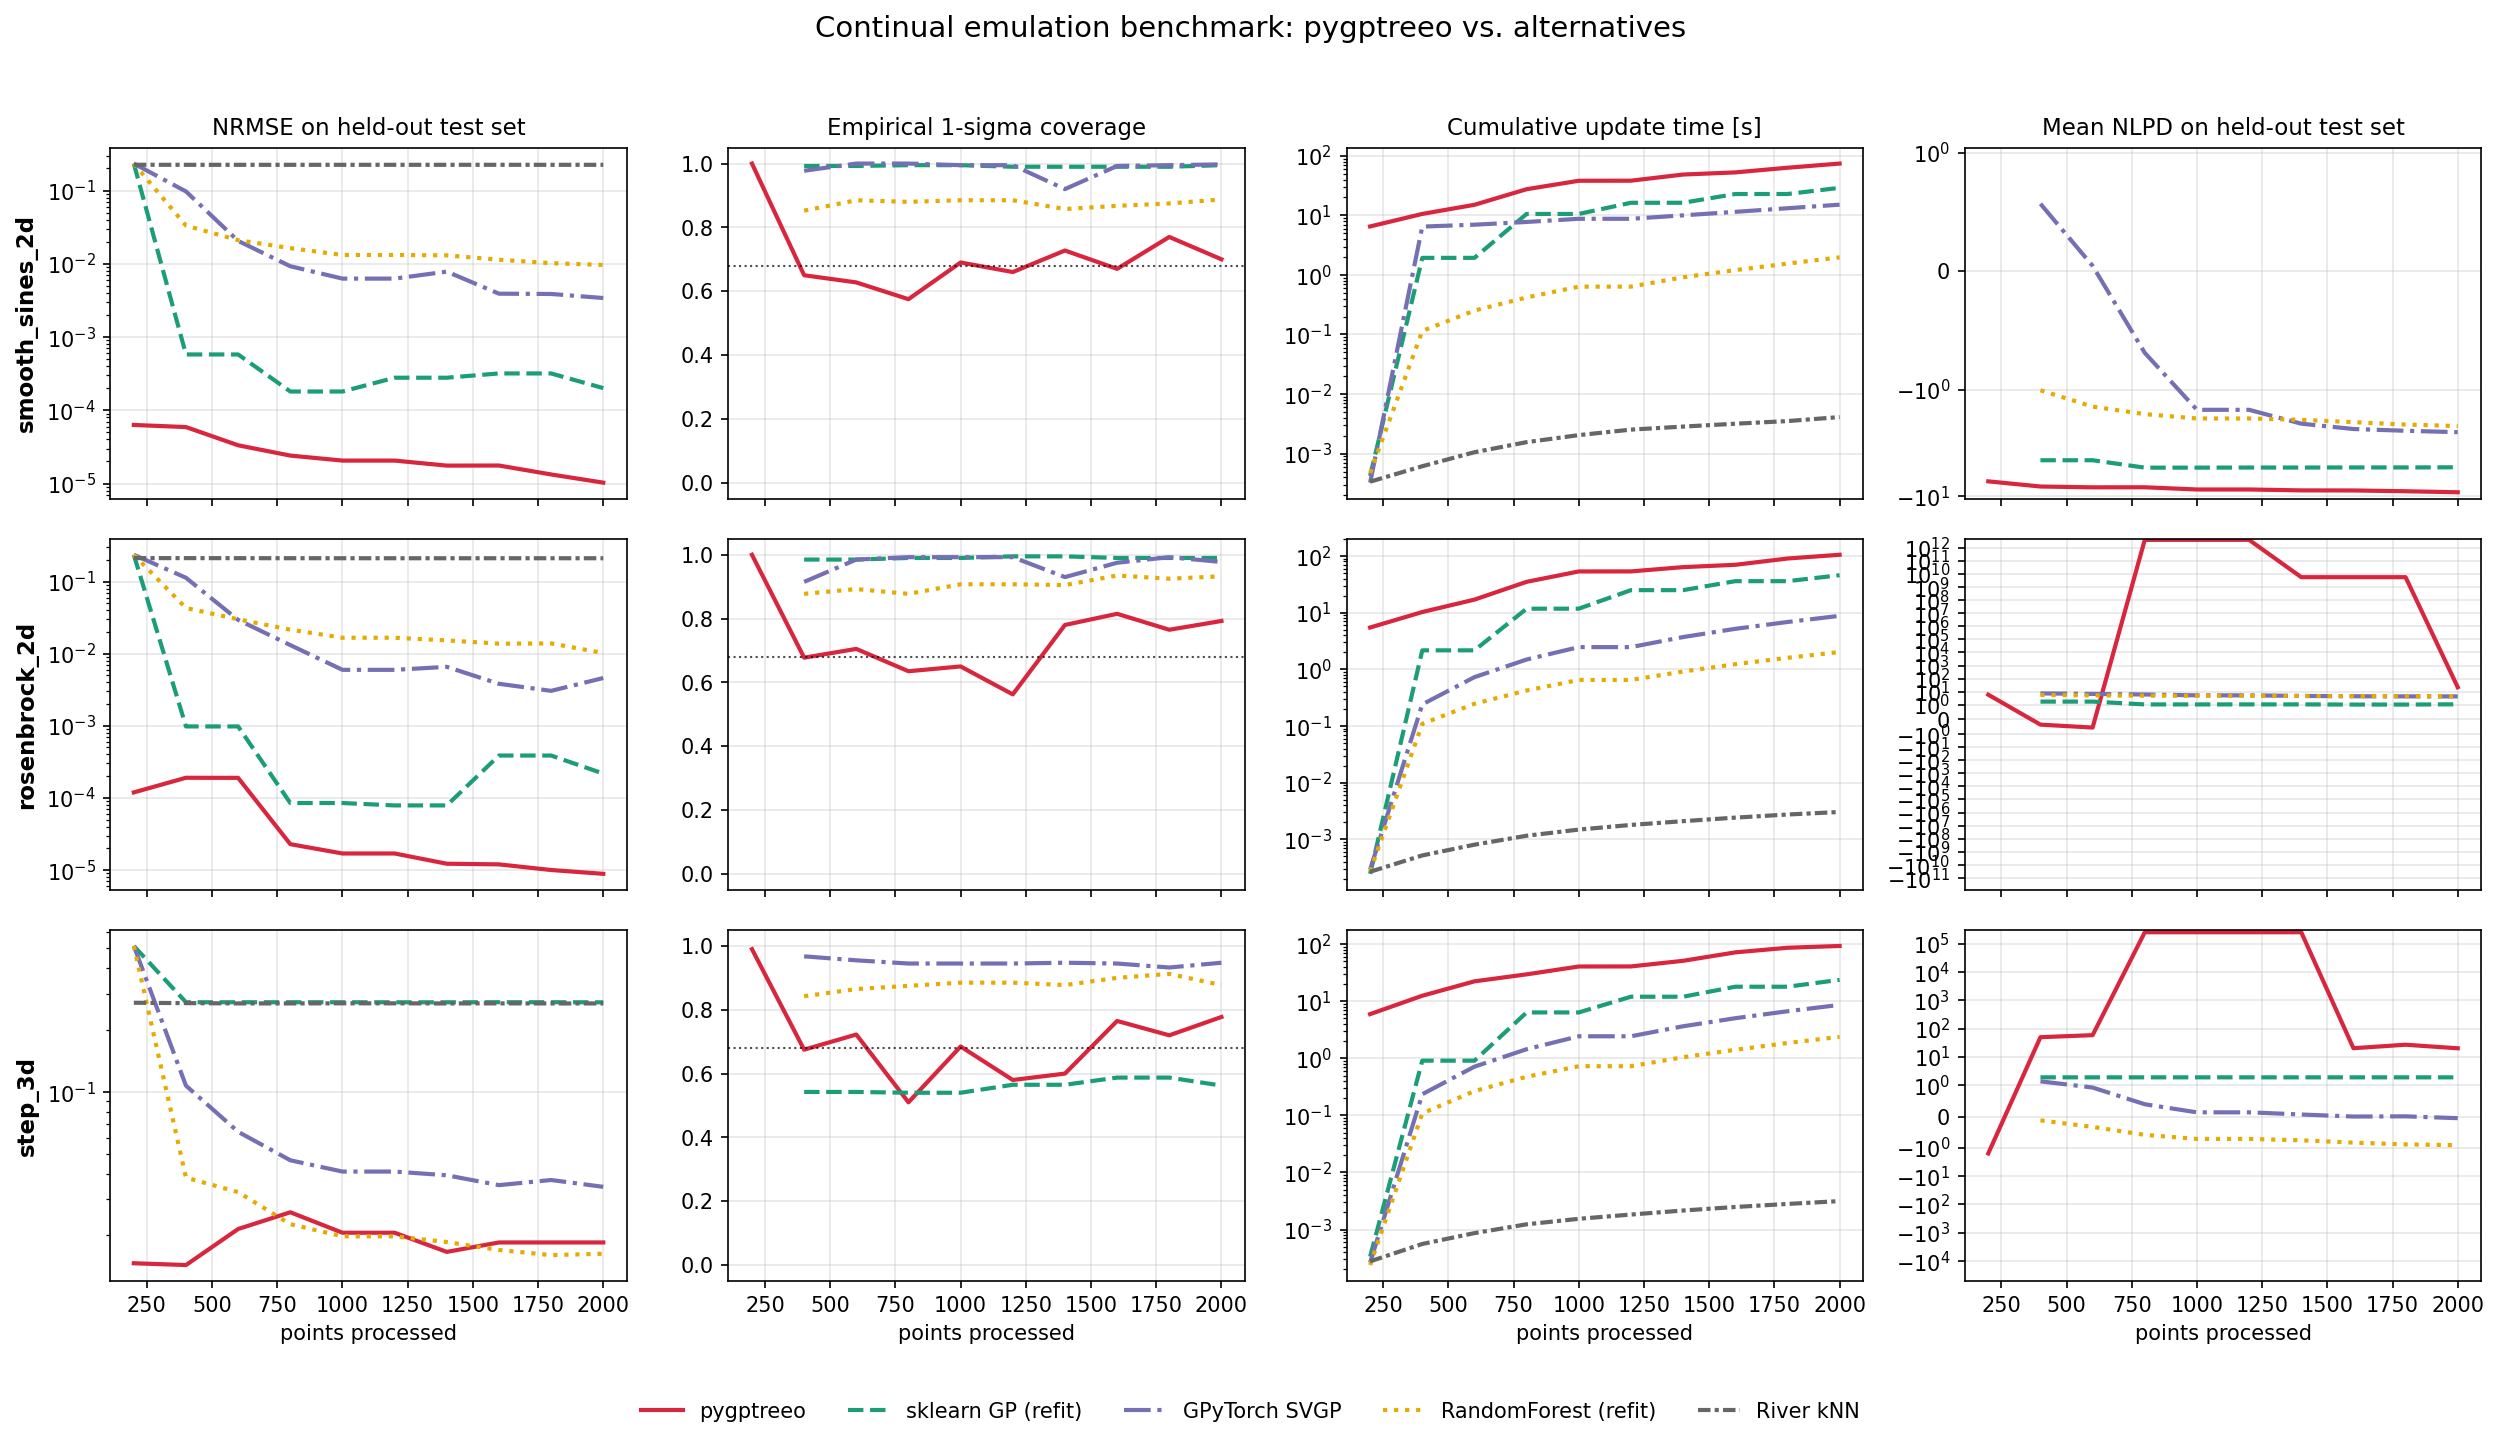
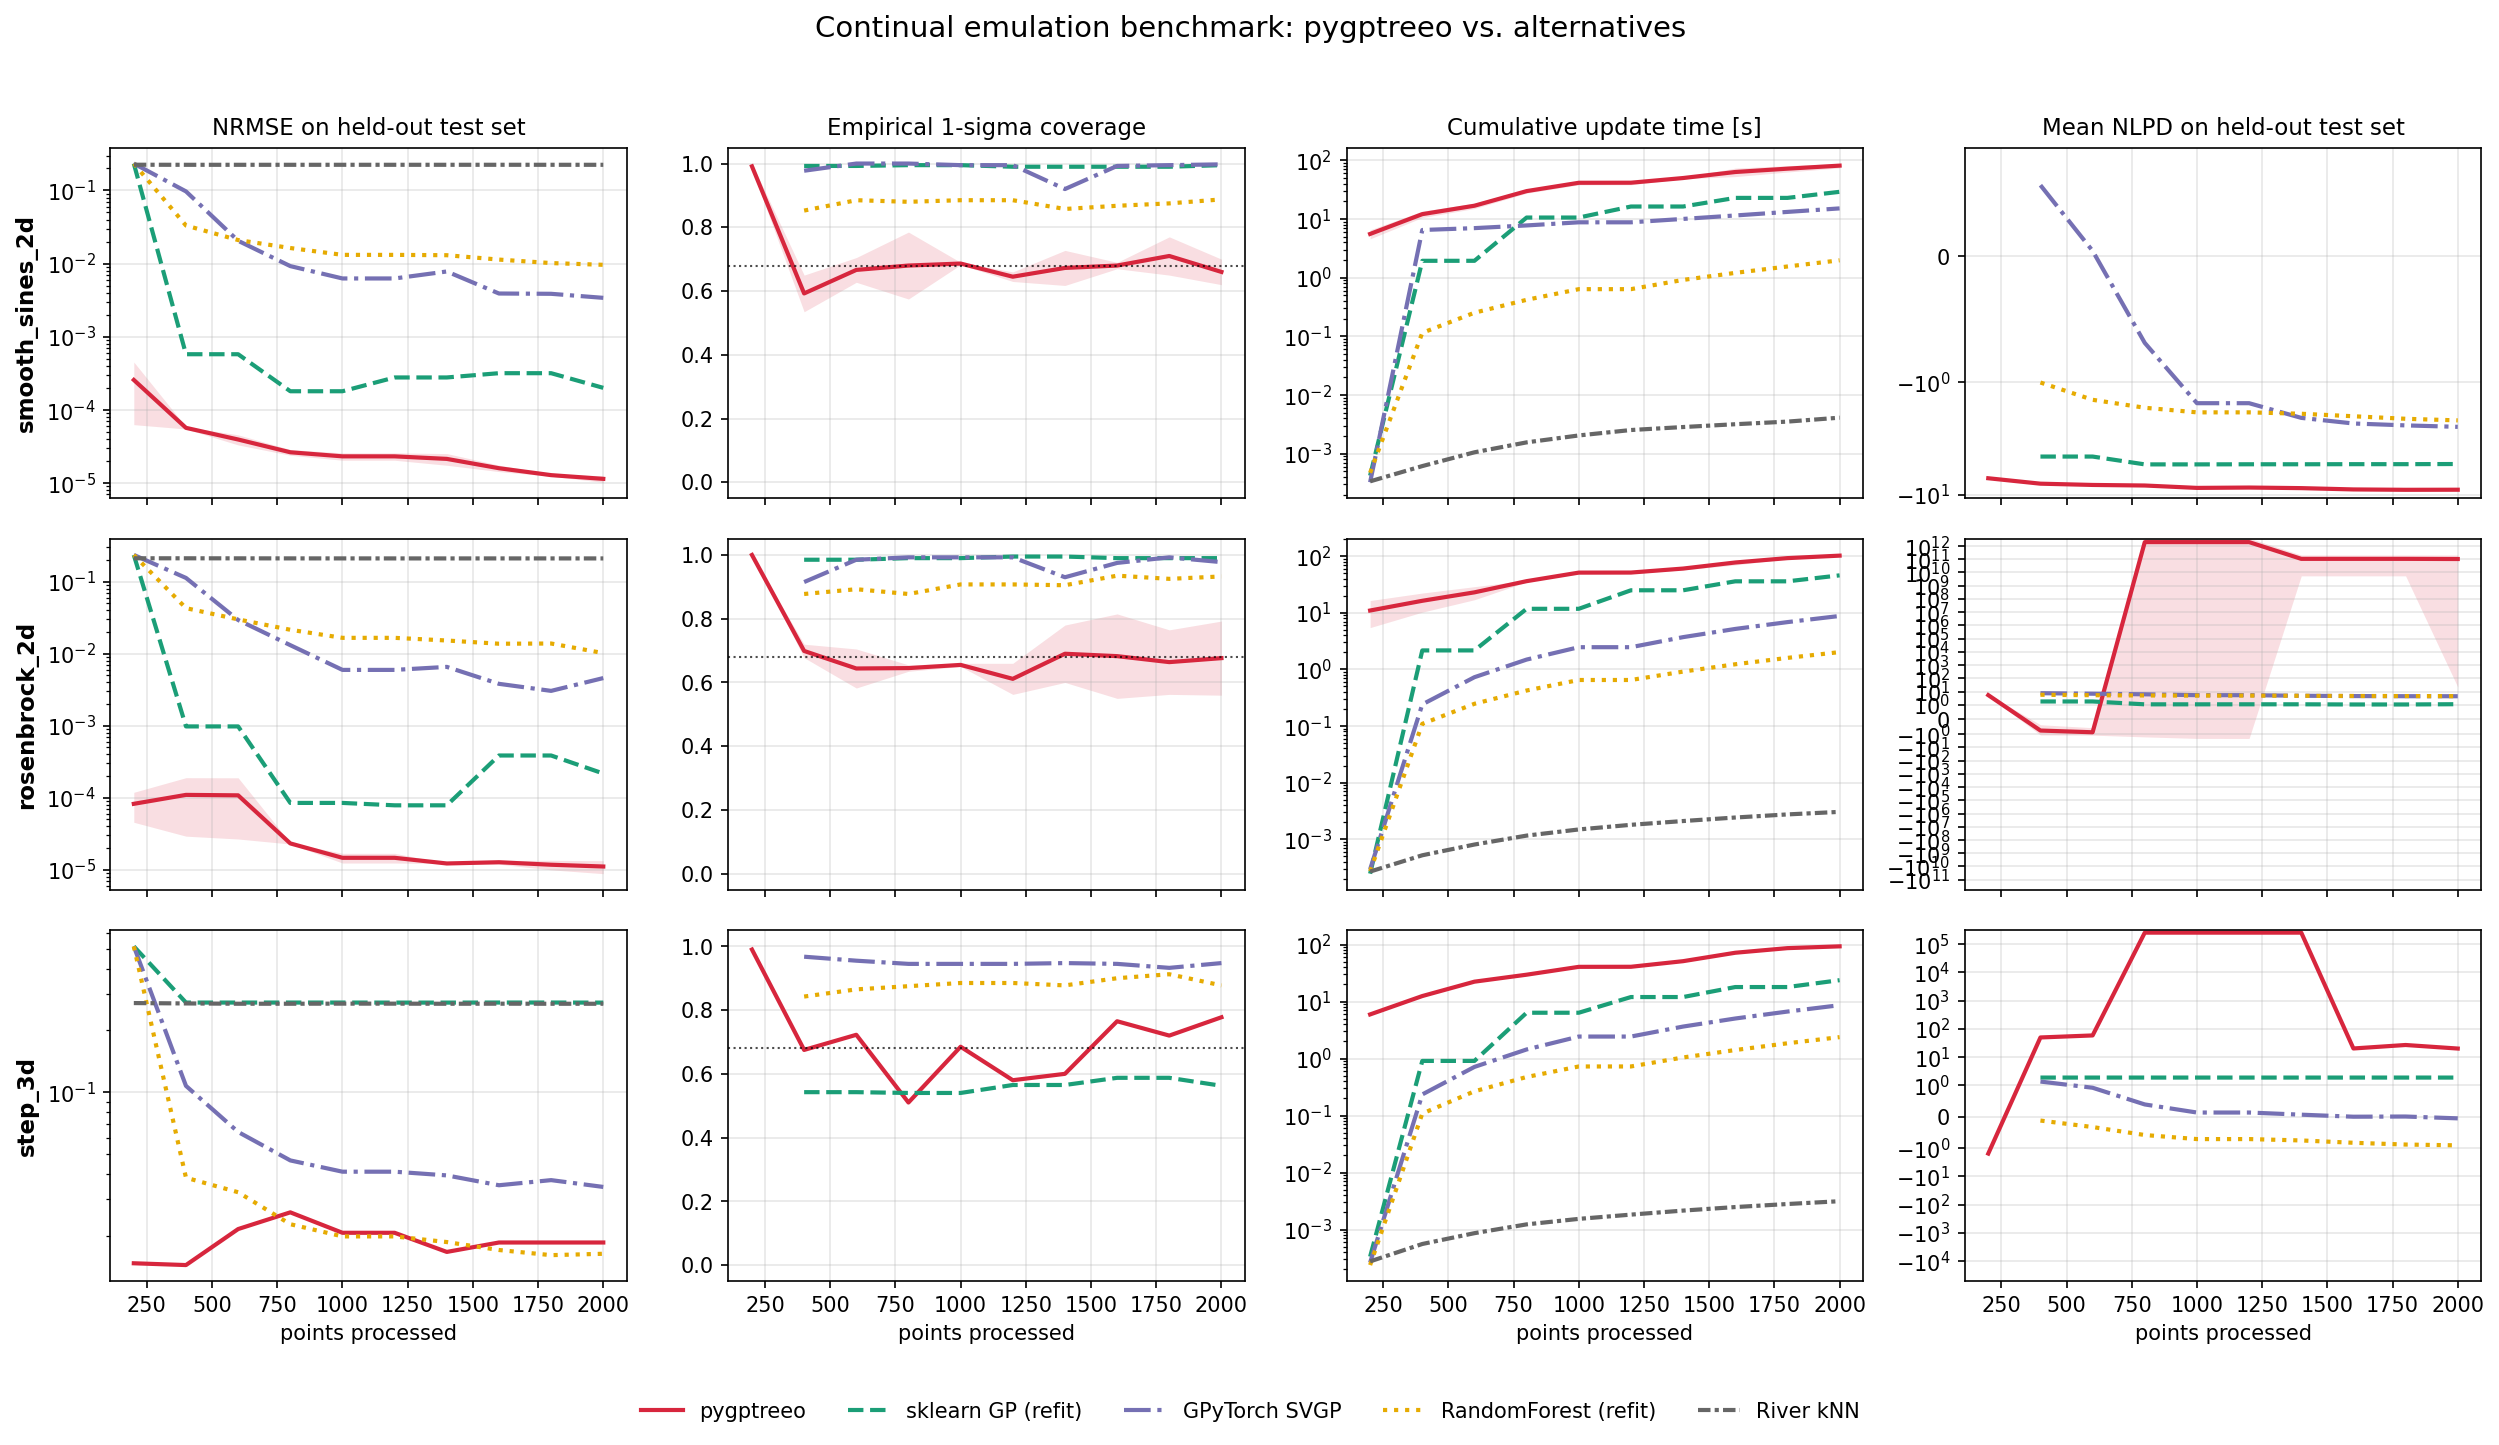
Add Pareto (accuracy-vs-compute) panel; improve NLPD axis scaling
The time-series NLPD subplots could be dominated by a single bad checkpoint
because the standard deviation goes to zero for some well-fit methods and
blows up the negative log density. Switched to symlog y-scale clipped to
the 5th-95th percentile of observed NLPD values across methods.

Added a third figure (pareto.png) plotting final NRMSE vs. total update
time per method on each problem. This makes the accuracy-vs-compute
trade-off immediately readable for the paper.

Also includes seed-1 partial results for pygptreeo (smooth_sines_2d and
rosenbrock_2d) collected while testing.

https://claude.ai/code/session_01B4tphrzfbR4yxJ5jXqLUV4

diff --git a/benchmarks/make_plots.py b/benchmarks/make_plots.py
@@ -232,6 +232,44 @@ def plot_summary_bars(results: dict, problems: list, out_path: str):
     plt.close(fig)
 
 
+def plot_pareto(results: dict, problems: list, out_path: str):
+    """Scatter of final NRMSE vs. cumulative update time per method/problem."""
+    fig, axes = plt.subplots(
+        1, len(problems), figsize=(4.5 * len(problems), 4.0),
+        squeeze=False,
+    )
+    for i, problem in enumerate(problems):
+        ax = axes[0][i]
+        for method in METHOD_ORDER:
+            runs = results.get((method, problem))
+            if not runs:
+                continue
+            xs = [r["cum_update_time"][-1] for r in runs
+                  if len(r["cum_update_time"]) > 0]
+            ys = [r["nrmse"][-1] for r in runs if len(r["nrmse"]) > 0]
+            if not xs:
+                continue
+            ax.scatter(
+                xs, ys, s=90,
+                color=METHOD_COLOR[method], edgecolor="black", linewidth=0.7,
+                label=METHOD_LABEL[method], zorder=3,
+            )
+        ax.set_xscale("log")
+        ax.set_yscale("log")
+        ax.set_xlabel("total update time [s]")
+        ax.set_ylabel("final NRMSE")
+        ax.set_title(problem)
+        ax.grid(True, which="both", alpha=0.3)
+        if i == 0:
+            ax.legend(fontsize=8, frameon=False, loc="best")
+    fig.suptitle("Accuracy vs. compute budget (lower-left is better)",
+                 fontsize=14)
+    fig.tight_layout(rect=[0, 0, 1, 0.95])
+    os.makedirs(os.path.dirname(out_path), exist_ok=True)
+    fig.savefig(out_path, dpi=150, bbox_inches="tight")
+    plt.close(fig)
+
+
 def main():
     ap = argparse.ArgumentParser()
     ap.add_argument("--data-dir", default="benchmarks/data")
@@ -256,6 +294,10 @@ def main():
     plot_summary_bars(
         results, args.problems,
         os.path.join(args.plots_dir, "summary.png"),
+    )
+    plot_pareto(
+        results, args.problems,
+        os.path.join(args.plots_dir, "pareto.png"),
     )
     print(f"Wrote plots to {args.plots_dir}/")
 